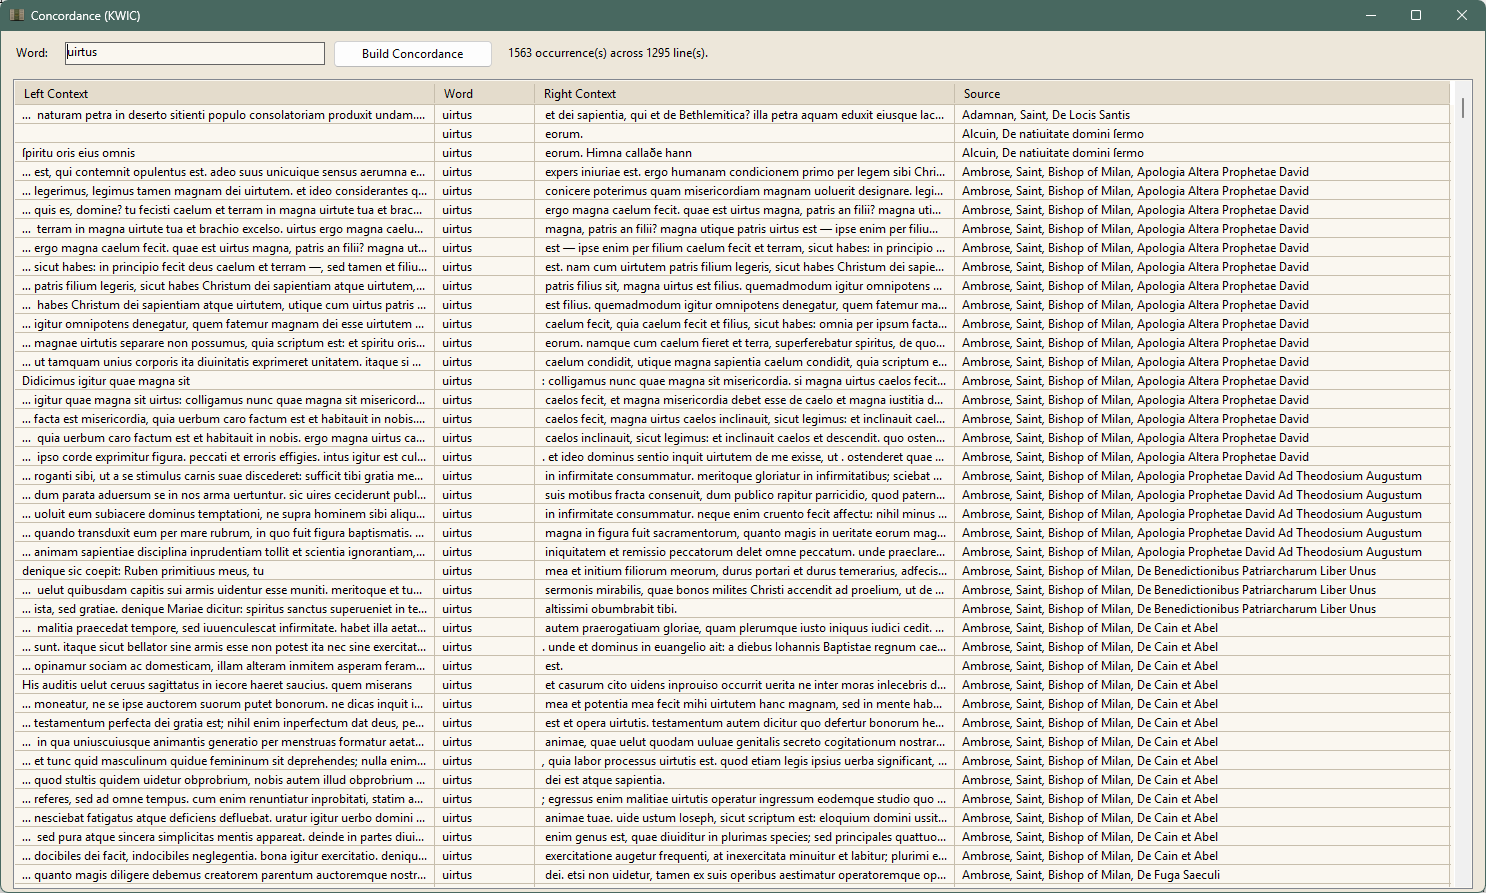
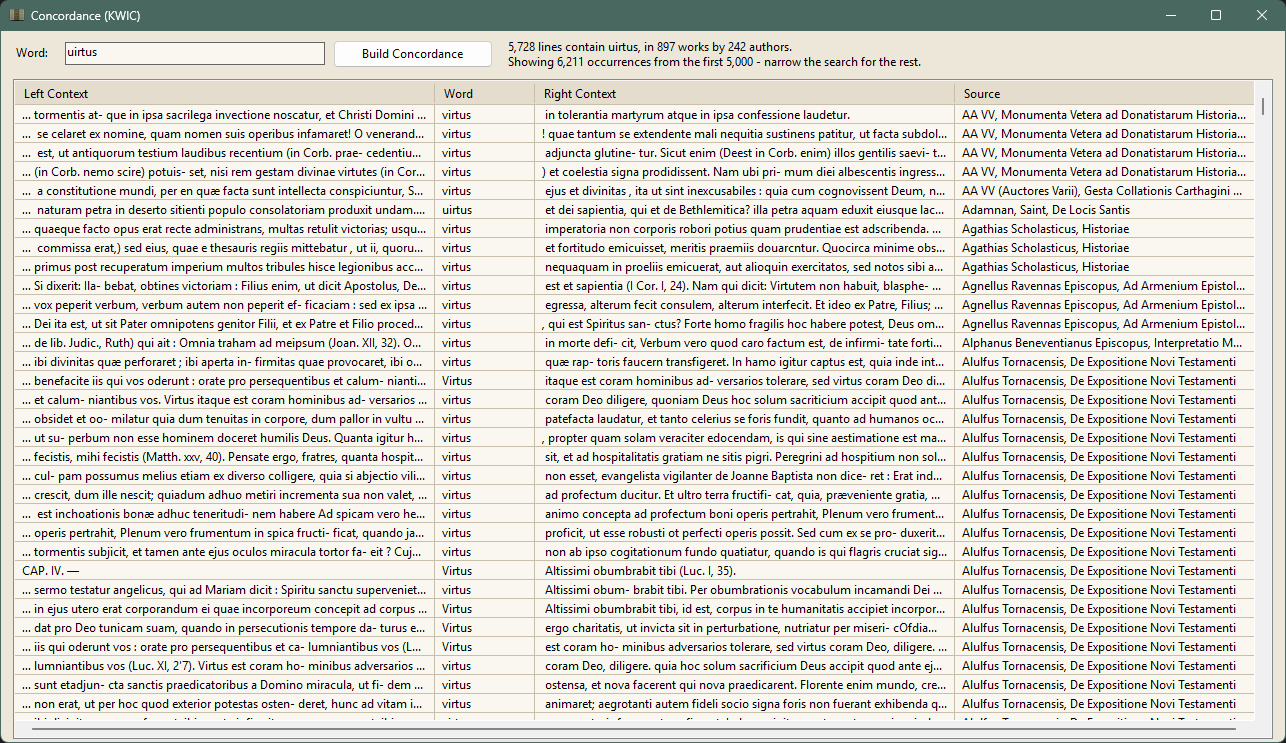
Make the Help and the screenshots describe the app that now exists
Three of this branch's fixes changed what the search window does, and
nothing that describes it was updated to match. The in-app Help was the
worst of it: it still called "Anywhere in the line" the default, which it
has not been since the first commit here, and still said of it that "it
never silently misses anything" - the exact claim this branch spent six
commits disproving. It is the mode that finds 8 lines of 316 for an
unaccented Greek word and a third of "iustitia".

Help now describes the three modes as they behave, including that whole
words requires all of them and matches past accents, sigma and u/v; says
that the concordance is of a word rather than a stem and points at Word
Study for every form of a headword; and drops the caveat that document
counts are "a good guide and not a census", which was true of the bug and
is not true of the fix.

Both README screenshots were showing numbers the app no longer produces -
1,284 matches for a search that now finds 5,634, and a concordance status
line in a format that no longer exists. Retaken against the real library.
The search one is now the per-document view, because it is the honest
picture of what that window answers and because after the u/v fix the
passage list for that query is Church Fathers prose with the match off the
right-hand edge.

Also found while retaking them: the concordance status line was being cut
off mid-sentence. It carries the library-wide totals now and did not fit
[…]

diff --git a/src/ClassicaCodex.UI/HelpForm.cs b/src/ClassicaCodex.UI/HelpForm.cs
@@ -240,9 +240,9 @@ Click Search in the toolbar to open the search window. It stays open beside the 
 Results are shown with the matched words highlighted. Double-click one to open it in the reader; right-click for Copy to Clipboard, or Export All Passages to write the whole result set to a document.
 
 Match
-   Anywhere in the line - the default. Matches the letters you typed wherever they appear, so "arm" also finds "arma" and "harm". It never silently misses anything, which is why it's the default.
-   Whole words only - the word itself, so "arm" no longer finds "arma". With the word index built (Setup Wizard), this also ignores accents and final sigma, so a Greek word matches however the edition happens to accent it - type theos unaccented and it still finds the accented form. Without the index it still rejects substrings, but only finds the spelling you typed.
-   All words, any order - every word you typed must appear somewhere in the line, not necessarily together. This is how to ask which passages mention two things at once.
+   Whole words only - the default. The word itself, so "arm" no longer finds "arma", and every word you type has to be there. With the word index built (Setup Wizard) it also matches through the spelling: accents and breathings, all three shapes of sigma, and both halves of Latin u/v and i/j. So an unaccented "menin" finds the accented form, "iustitia" also finds editions printing "justitia", and a line pasted straight out of the reader finds itself. Without the index it still rejects substrings, but only finds the spelling you typed.
+   Anywhere in the line - matches the letters you typed wherever they appear, so "arm" also finds "arma" and "harm". The one to reach for when hunting a stem or a fragment. It compares against the text as printed, so unlike whole words it cannot see past an accent the edition uses and you didn't type, or past u/v and i/j - "iustitia" finds a third of what is there. It is also much slower, since it reads every line rather than seeking an index.
+   All words, any order - every word you typed must appear somewhere in the line, as substrings rather than whole words. Whole words only already requires all of them, so this is the one to use when the words themselves need to match loosely.
 
 Narrowing
    Language - Greek, Latin, English, or any combination.
@@ -256,9 +256,9 @@ Clear Filters resets the narrowing without clearing what you typed.
 Every passage, or one row per document
    The Show box beside the results switches between the two. By passage is the default and lists every matching line. By document lists each work once with the number of matches in it - which is the better question when you want to know where a word is concentrated rather than read each occurrence.
 
-   Double-click a document to list its matches; switch Show back to see every document again. Both views come from the same search, so changing between them costs nothing and finds nothing new.
+   Double-click a document to list its matches; switch Show back to see every document again.
 
-   One caution: searches stop at a limit, and when that happens the counts cover the matches that came back rather than everything in the library. The status line says so when it applies. A document count is a good guide to where to look and not a census.
+   The document list and the match total are counted across the whole library, not across the passages that fitted on screen. A search stops laying out passages at a limit, and the status line says when it has - but the counts beside it are of everything, so "5,634 matches across 878 documents by 231 authors" means that and not "of the ones we had room for". Opening one of those documents goes back for its own matches, so a work past the limit still lists in full.
 
 Recent searches
    Every search you run is remembered, with its filters, and listed in the Recent box - most recent first, the last ten kept. There is nothing to save and nothing to tidy up.
@@ -326,6 +326,8 @@ Dictionary entries come from Liddell-Scott-Jones for Greek and Lewis & Short for
         ("Analysis tools", """
 Concordance
    A keyword-in-context view: every occurrence of a word lined up with what comes before and after, so patterns of usage are visible at a glance.
+
+   Of a word, not of a stem: it matches whole words through the word index, so it reads past accents, lunate sigma and u/v the way the search window's default does, and the keyword column shows the word as that edition prints it. For every inflected form of a headword instead, use Word Study, which asks the lemma data rather than guessing from spelling.
 
 Stylometry
    Compares writing style using Burrows's Delta, a standard authorship-attribution measure based on how often each author reaches for common function words. Runs on original-language texts, since it's comparing the actual words an author wrote.

diff --git a/src/ClassicaCodex.UI/ConcordanceForm.cs b/src/ClassicaCodex.UI/ConcordanceForm.cs
@@ -64,7 +64,14 @@ public class ConcordanceForm : ScaledForm
         _searchButton = new Button { Text = "Build Concordance", Left = 332, Top = 9, Width = 160, Height = 28 };
         _searchButton.Click += async (_, _) => await RunConcordanceAsync();
 
-        _statusLabel = new Label { Text = "", Left = 504, Top = 14, Width = 760, Anchor = AnchorStyles.Top | AnchorStyles.Left | AnchorStyles.Right };
+        // Two lines' worth of height, because this now reports the totals
+        // across the library as well as what is laid out, and one line of it
+        // was being cut off mid-sentence at the default 23px.
+        _statusLabel = new Label
+        {
+            Text = "", Left = 504, Top = 8, Width = 760, Height = 34,
+            Anchor = AnchorStyles.Top | AnchorStyles.Left | AnchorStyles.Right
+        };
 
         _resultsList = new ListView
         {
@@ -259,9 +266,9 @@ public class ConcordanceForm : ScaledForm
             // library rather than across the rows that fitted, so what is
             // capped is how much of it can be laid out on screen.
             _statusLabel.Text = hits.Truncated
-                ? $"{distribution.TotalMatches:N0} line(s) contain {word}, in {distribution.WorkCount:N0} work(s) " +
-                  $"by {distribution.AuthorCount:N0} author(s). Showing {rowCount:N0} occurrence(s) from the first " +
-                  $"{matches.Count:N0} line(s) - narrow the search to lay out the rest."
+                ? $"{distribution.TotalMatches:N0} lines contain {word}, in {distribution.WorkCount:N0} works " +
+                  $"by {distribution.AuthorCount:N0} authors.\r\n" +
+                  $"Showing {rowCount:N0} occurrences from the first {matches.Count:N0} - narrow the search for the rest."
                 : $"{rowCount:N0} occurrence(s) across {matches.Count:N0} line(s), " +
                   $"in {distribution.WorkCount:N0} work(s) by {distribution.AuthorCount:N0} author(s).";
         }

diff --git a/README.md b/README.md
@@ -58,21 +58,26 @@ marked, because its count is an upper bound.
 
 ## Search the whole library at once
 
-By word or phrase, whole-word or anywhere in the line, narrowed by author,
-language, era, collection, or your own tags. Whole-word search goes through a
-lemma- and accent-aware index, so a Greek word matches however a particular
-edition accents it. Results export, and the last ten searches are kept with all
-their filters.
+By word or phrase, narrowed by author, language, era, collection, or your own
+tags. The default whole-word search matches past the spelling as well as the
+word: accents and breathings, all three shapes of sigma, and both halves of
+Latin u/v and i/j — so an unaccented Greek word finds the accented form, and
+`iustitia` finds the editions that print `justitia` too. Counts are of the
+whole library rather than of the page, so "how often, and where" is a question
+it can actually answer. Results export, and the last ten searches are kept with
+all their filters.
 
-<img width="900" alt="Searching the library for uirtus in Latin, whole words only, showing 1,284 matches with the term highlighted in each line" src="docs/images/search.png" />
+<img width="900" alt="Searching the library for uirtus in Latin: 5,634 matches across 878 documents by 231 authors, shown one row per document with Cassiodorus, Hilary of Poitiers and Lactantius at the top" src="docs/images/search.png" />
 
 ## Concordance
 
 Every occurrence of a word in its context, aligned down the middle — the printed
 concordance's one genuinely irreplaceable trick, which is that you can read down
-the column and see the shape of a word's use.
+the column and see the shape of a word's use. The keyword column shows the word
+as each edition prints it, so searching `uirtus` lines up `virtus`, `uirtus` and
+`Virtus` together rather than making you pick one.
 
-<img width="900" alt="A keyword-in-context concordance for uirtus, 1,563 occurrences across 1,295 lines, with left context, the word, right context and source" src="docs/images/concordance.png" />
+<img width="900" alt="A keyword-in-context concordance for uirtus: 5,728 lines across 897 works by 242 authors, with left context, the word, right context and source in aligned columns" src="docs/images/concordance.png" />
 
 ## Find where a line is reused
 
